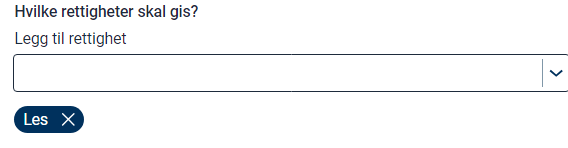
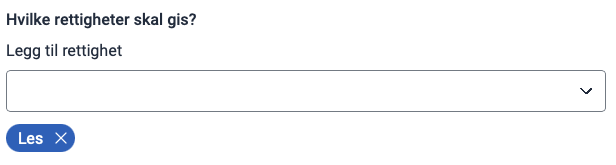
Eko ressursadmin (#2624)
* Oppdatert punkt 1 kom i gang

* oppdatert guider med ny stil og tilgangspakker

* fix coderabit tilbakemelding

* fikset filnavn

* Avglemt norsk tekst i engelsk fil

Changed region(s): [[0.0, 0.4054, 1.0, 0.9459], [0.0, 0.2162, 1.0, 0.3784], [0.0, 0.027, 0.3592, 0.1892]]

diff --git a/content/authorization/getting-started/resourceadministration/_index.nb.md b/content/authorization/getting-started/resourceadministration/_index.nb.md
@@ -1,11 +1,11 @@
 ---
 title: Kom i gang med ressursadministrasjon
 linktitle: Ressursadministrasjon
-description: For å kunne bruke Altinn Autorisasjon til må det gjennomfører noe oppsett på vegne av virksomheten
+description: For å bruke Altinn Autorisasjon må det gjennomføres oppsett på vegne av virksomheten
 ---
 
 {{< stepcard step="1" title="Signere avtale" >}}
-1
+Kontakt [servicedesk@altinn.no](mailto:servicedesk@altinn.no) for å signre avtaler og bli opprettet som tjenesteier i Altinn.
 {{< /stepcard >}}
 
 {{< stepcard step="2" title="Opprett bruker og organisasjon" >}}

diff --git a/content/authorization/guides/resource-owner/create-resource-resource-admin/_index.en.md b/content/authorization/guides/resource-owner/create-resource-resource-admin/_index.en.md
@@ -98,7 +98,8 @@ Define the action for the rule
 
 ### Subject
 
-Define the subject for the role. You can choose amongst ER roles, Altinn Roles, and Access Packages(todo)
+Define the subject for the role. You can choose amongst ER roles, Altinn Roles, and Access Packages
+Read more about access packages and roles [here](/en/authorization/what-do-you-get/accessgroups/).
 
 ![Create Resource](create_resource_13.png)
 

diff --git a/content/authorization/guides/resource-owner/create-resource-resource-admin/_index.nb.md b/content/authorization/guides/resource-owner/create-resource-resource-admin/_index.nb.md
@@ -100,7 +100,8 @@ Definer handlingen for regelen
 
 ### Emne
 
-Definer emnet for rollen. Du kan velge mellom ER-roller, Altinn-roller og tilgangspakker (todo)
+Definer emnet for rollen. Du kan velge mellom ER-roller, Altinn-roller og tilgangspakker.  
+Les mer om tilgangspakker og roller [her](/nb/authorization/what-do-you-get/accessgroups/).
 
 ![Create Resource](create_resource_13.png)
 

diff --git a/content/authorization/getting-started/resourceadministration/_index.en.md b/content/authorization/getting-started/resourceadministration/_index.en.md
@@ -5,7 +5,7 @@ description: Getting started with resource administration
 ---
 
 {{< stepcard step="1" title="Sign the agreement" >}}
-1
+Contact [servicedesk@altinn.no](mailto:servicedesk@altinn.no) to sign agreements and be registered as a service owner in Altinn.
 {{< /stepcard >}}
 
 {{< stepcard step="2" title="Create user and organization" >}}
